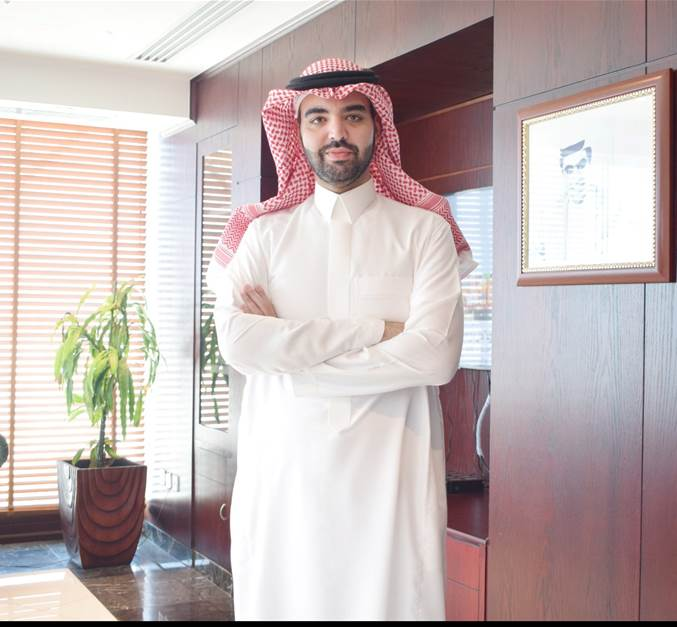
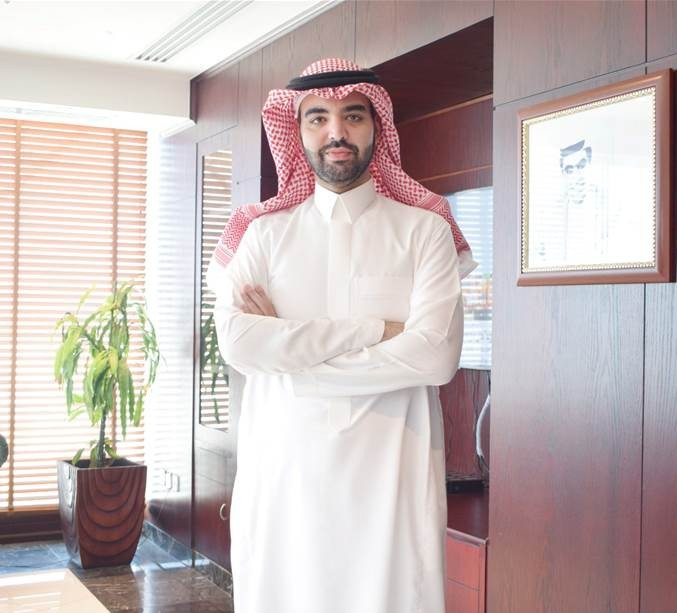
Updated files

diff --git a/css/responsive.css b/css/responsive.css
@@ -242,11 +242,10 @@
 @media (max-width: 480px) {
   .header-style-two .logo img,
   .header-style-one .logo img {
-<<<<<<< HEAD
+
     max-width: 300px !important;  /* was 110px */
-=======
     max-width: 300px;
->>>>>>> a69d06447cbbd8c23843fdefa8cb54b47f90e2b9
+
   }
 }
 
@@ -271,48 +270,172 @@
 /* ===== Fix mobile navbar z-index issue ===== */
 /* This ensures the mobile menu appears above the banner and other elements */
 
-
+/* ===== Search Dropdown Mobile Fix ===== */
 @media (max-width: 991px) {
-  /* Existing mobile styles... */
-  
-  /* Fix mobile navbar z-index */
-  .mobile-navbar {
+  /* Ensure search container has higher z-index on mobile */
+  .search-container {
     position: relative;
-    z-index: 9999 !important; /* Higher than banner */
-	  margin-top: -23px;
+    z-index: 10000 !important; /* Higher than mobile navbar's 9999 */
   }
   
+  /* Search results dropdown */
+  .search-results {
+    position: absolute;
+    top: 100%;
+    left: 59px;
+    width: 68%;
+    z-index: 10001 !important; /* Even higher to be above everything */
+  }
+  
+  /* Ensure mobile nav stays below search when open */
   .mobile-nav-links {
     position: relative;
-    z-index: 9999 !important;
+    z-index: 9998 !important; /* Below search dropdown */
   }
-  
-  /* Ensure banner doesn't overlap menu */
-  #banner {
+}
+
+/* END */
+
+
+/* ===== Search Dropdown - Proper Width for All Devices ===== */
+
+/* Desktop - dropdown matches search input width */
+.search-container {
+  position: relative;
+  width: 250px; /* matches form width from style.css */
+}
+
+/* ====== SEARCH DROPDOWN (Desktop Style - White with Light Grey Text + Yellow Hover) ====== */
+.search-results {
+  position: absolute;
+  top: 100%;
+  left: 0;
+  right: 0;
+  width: auto;
+  background: #ffffff; /* white background */
+  border: 1px solid #e5e5e5; /* light border */
+  border-radius: 6px;
+  box-shadow: 0 4px 10px rgba(0, 0, 0, 0.1); /* subtle dropdown shadow */
+  padding: 6px 0;
+  margin-top: 5px;
+  display: none;
+  z-index: 10000 !important;
+  opacity: 0;
+  transform: translateY(-6px);
+  transition: all 0.3s ease;
+  box-sizing: border-box;
+}
+
+/* Show dropdown */
+.search-results.show {
+  opacity: 1;
+  transform: translateY(0);
+  display: block;
+}
+
+/* Each search result item */
+.search-results a.result-item {
+  display: block;
+  padding: 10px 16px;
+  font-size: 15px;
+  color: #76808a; /* light grey text like menu dropdown */
+  background: #fff;
+  text-decoration: none;
+  border-bottom: 1px solid #f2f2f2;
+  transition: color 0.25s ease;
+}
+
+/* Hover - only text turns yellow */
+.search-results a.result-item:hover {
+  color: #fac800; /* yellow text on hover */
+  font-weight: 600; /* slightly bold for clarity */
+  background: #fff; /* stay white */
+}
+
+/* Remove border for last item */
+.search-results a.result-item:last-child {
+  border-bottom: none;
+}
+
+/* No results message */
+.search-results .no-results {
+  background: #fff;
+  color: #777;
+  font-style: italic;
+  padding: 10px 16px;
+}
+
+/* ===== Responsive Adjustments ===== */
+
+/* Desktop - dropdown matches search input width */
+.search-container {
+  position: relative;
+  width: 250px; /* same as search input width */
+}
+
+/* Mobile - full width */
+@media (max-width: 991px) {
+  .search-container {
     position: relative;
-    z-index: 1;
+    z-index: 10000 !important;
+    width: 100%;
   }
-  
-  .rev_slider_wrapper {
-    position: relative;
-    z-index: 1;
+
+  .search-results {
+    max-height: 250px;
+    overflow-y: auto;
+    font-size: 14px;
+    left: 0;
+    right: 0;
+    width: 100%;
   }
-  
-  /* Keep header below mobile menu */
-  .header-style-two {
-    position: relative;
-    z-index: 998;
+
+  .search-results a.result-item {
+    padding: 8px 12px;
+    font-size: 14px;
+    line-height: 1.3;
   }
+
+  .search-results .no-results {
+    padding: 8px 12px;
+    font-size: 14px;
+  }
+}
+
+/* Very small phones */
+@media (max-width: 480px) {
+  .search-results {
+    max-height: 200px;
+    font-size: 13px;
+  }
+
+  .search-results a.result-item {
+    padding: 6px 10px;
+    font-size: 13px;
+  }
+
+  .search-results .no-results {
+    padding: 6px 10px;
+    font-size: 13px;
+  }
+}
+
+/* Smooth fade-slide animation for dropdown items */
+.search-results.show a.result-item {
+  opacity: 0;
+  transform: translateX(-6px);
+  animation: fadeSlideIn 0.3s ease forwards;
+}
+.search-results.show a.result-item:nth-child(1) { animation-delay: 0.05s; }
+.search-results.show a.result-item:nth-child(2) { animation-delay: 0.1s; }
+.search-results.show a.result-item:nth-child(3) { animation-delay: 0.15s; }
+.search-results.show a.result-item:nth-child(4) { animation-delay: 0.2s; }
+
+@keyframes fadeSlideIn {
+  0% { opacity: 0; transform: translateX(-6px); }
+  100% { opacity: 1; transform: translateX(0); }
 }
 
 
 
-
-
-
-
-
-
-
-
-
+/* END */

diff --git a/css/style.css b/css/style.css
@@ -4794,8 +4794,8 @@ body.csw-edge-visible #cswEdgeRight {
 
 
 .leader-name {
-  font-size: 28px;
-  font-weight: 700;
+  font-size: 32px;
+  font-weight: 750;
   margin-bottom: 8px;
   color: #111;
 }
@@ -4836,7 +4836,7 @@ body.csw-edge-visible #cswEdgeRight {
 
 
 .leader-section {
-  padding: 0px 10%;
+  padding: 0px 14%;
   background: #fff;
 }
 
@@ -6473,7 +6473,7 @@ body.csw-edge-visible #cswEdgeRight {
 .search-results a.result-item {
   display: block;
   padding: 10px 16px;
-  color: #222;
+  color: #76808a;
   text-decoration: none;
   font-size: 15px;
   border-bottom: 1px solid #f1f1f1;
@@ -6485,7 +6485,7 @@ body.csw-edge-visible #cswEdgeRight {
 }
 
 .search-results a.result-item:hover {
-  background: #fac800; /* light yellow background */
+  background: #fff8cc; /* light yellow background */
   color: #222; /* keep text readable */
 }
 
@@ -6511,5 +6511,26 @@ body.csw-edge-visible #cswEdgeRight {
   color: #555; /* or adjust to your theme color */
   margin-top: -33px;
 }
+
+/* END */
+
+
+
+
+/* ===== Force Company Info Background Stability ===== */
+/* ===== Company Info Background - No Jump on Refresh ===== */
+.company-info {
+  background: url(../images/home/1.jpg) no-repeat center center !important;
+  background-size: cover !important;
+  background-attachment: fixed !important;
+  margin: 110px 0 0 0;
+}
+
+.company-info .opacity {
+  height: 100%;
+  background: rgba(19,68,141,0.9);
+  padding: 75px 0 75px 0;
+}
+
 
 /* END */

diff --git a/search.html b/search.html
@@ -1,0 +1,32 @@
+<!DOCTYPE html>
+<html lang="en">
+<head>
+  <meta charset="UTF-8">
+  <meta name="viewport" content="width=device-width, initial-scale=1.0">
+  <title>Search Results</title>
+  <link rel="stylesheet" href="style.css">
+</head>
+<body>
+  <h2>Search Results for: <span id="query"></span></h2>
+  <div id="results"></div>
+
+  <script>
+    const results = JSON.parse(localStorage.getItem("searchResults")) || [];
+    const query = localStorage.getItem("searchQuery") || "";
+    document.getElementById("query").textContent = query;
+
+    const resultsDiv = document.getElementById("results");
+    if (results.length > 0) {
+      results.forEach(r => {
+        const link = document.createElement("a");
+        link.href = r.url;
+        link.textContent = r.title;
+        link.style.display = "block";
+        resultsDiv.appendChild(link);
+      });
+    } else {
+      resultsDiv.textContent = "No pages found matching your search.";
+    }
+  </script>
+</body>
+</html>

diff --git a/index.html b/index.html
@@ -155,7 +155,7 @@
 	<li class="ps-item">
 		<a href="" class="ps-parent">AB Technology</a>	
 		<ul class="ps-sub">
-			<li><a href="bits.html">BITS</a></li>
+		
 		</ul>
 		
 	</li>
@@ -582,7 +582,7 @@
 
 
 	        <!-- Company Information ___________________ -->
-	        <div class="company-info wow fadeInUp">
+	        <div class="company-info">
 	        	<div class="opacity">
 	        		<div class="container">
 	        			<div class="row">

diff --git a/about-us.html b/about-us.html
@@ -330,7 +330,7 @@
 
 
 	        <!-- Company Information ___________________ -->
-	        <div class="company-info wow fadeInUp">
+	        <div class="company-info ">
 	        	<div class="opacity">
 	        		<div class="container">
 	        			<div class="row">
